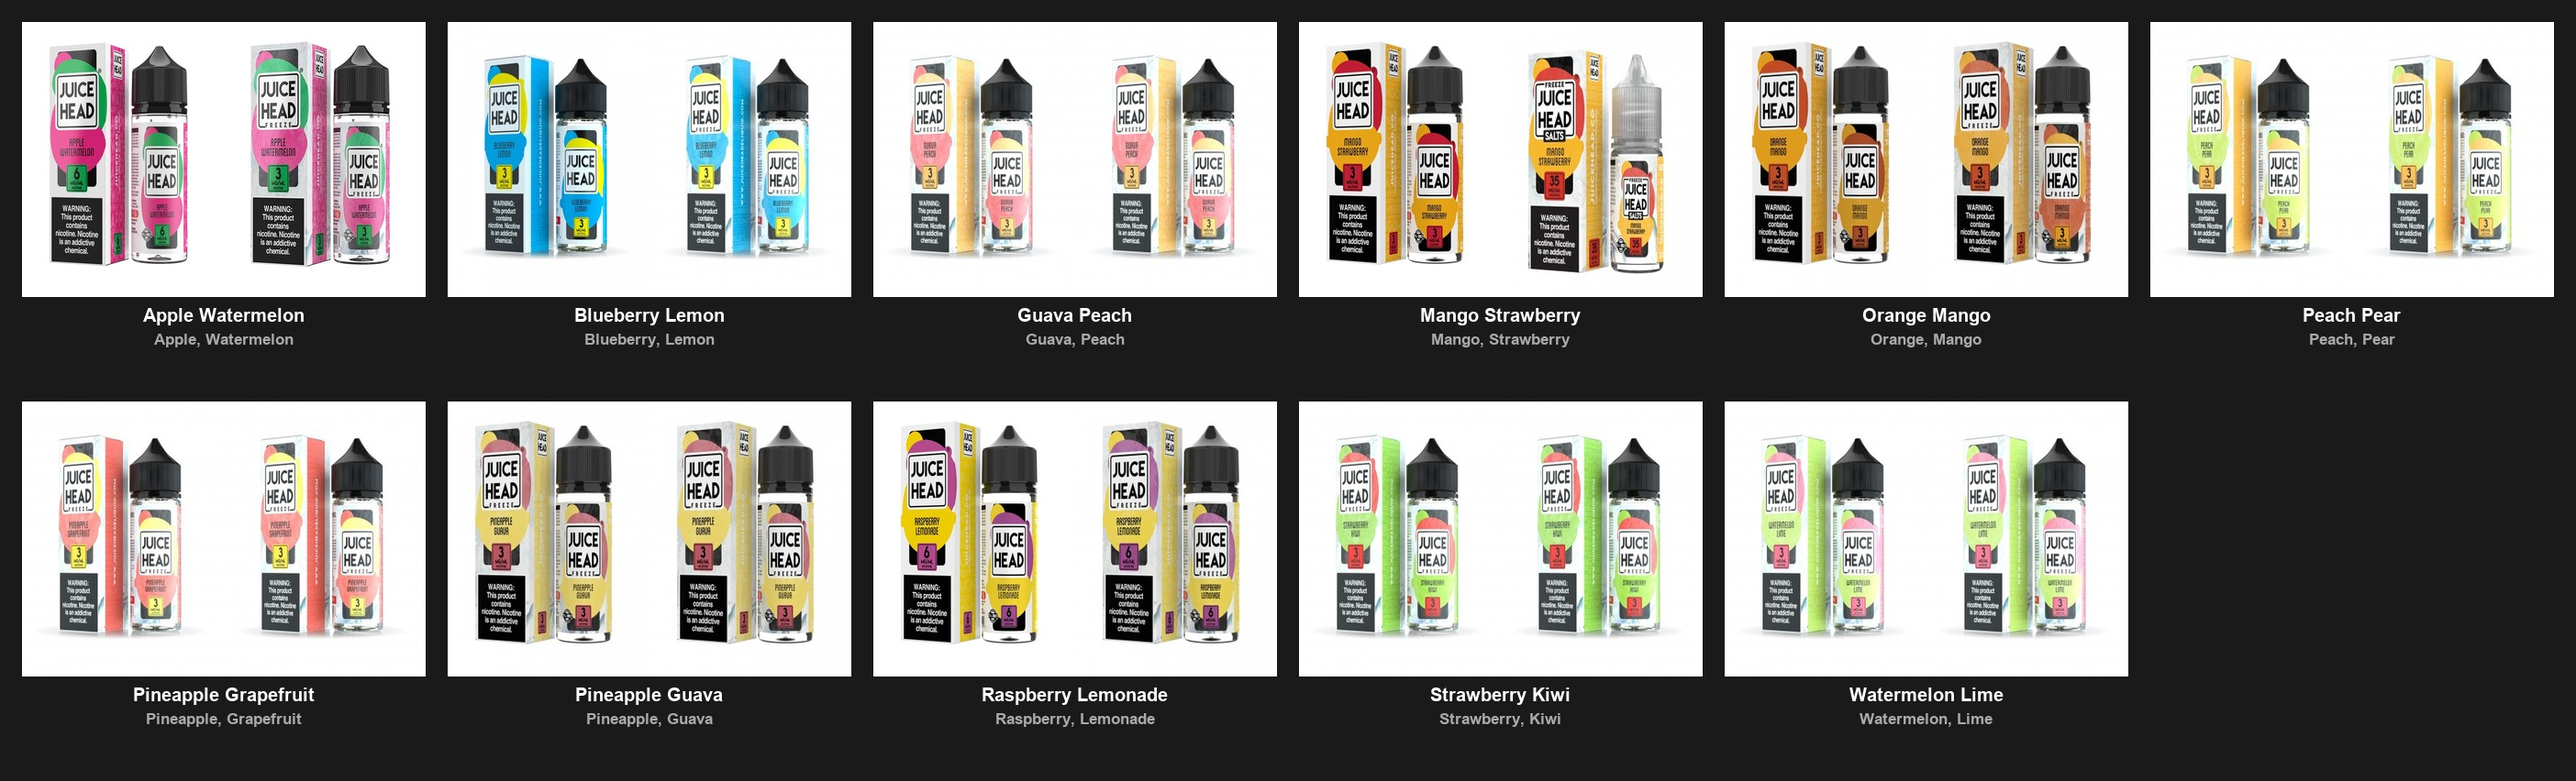
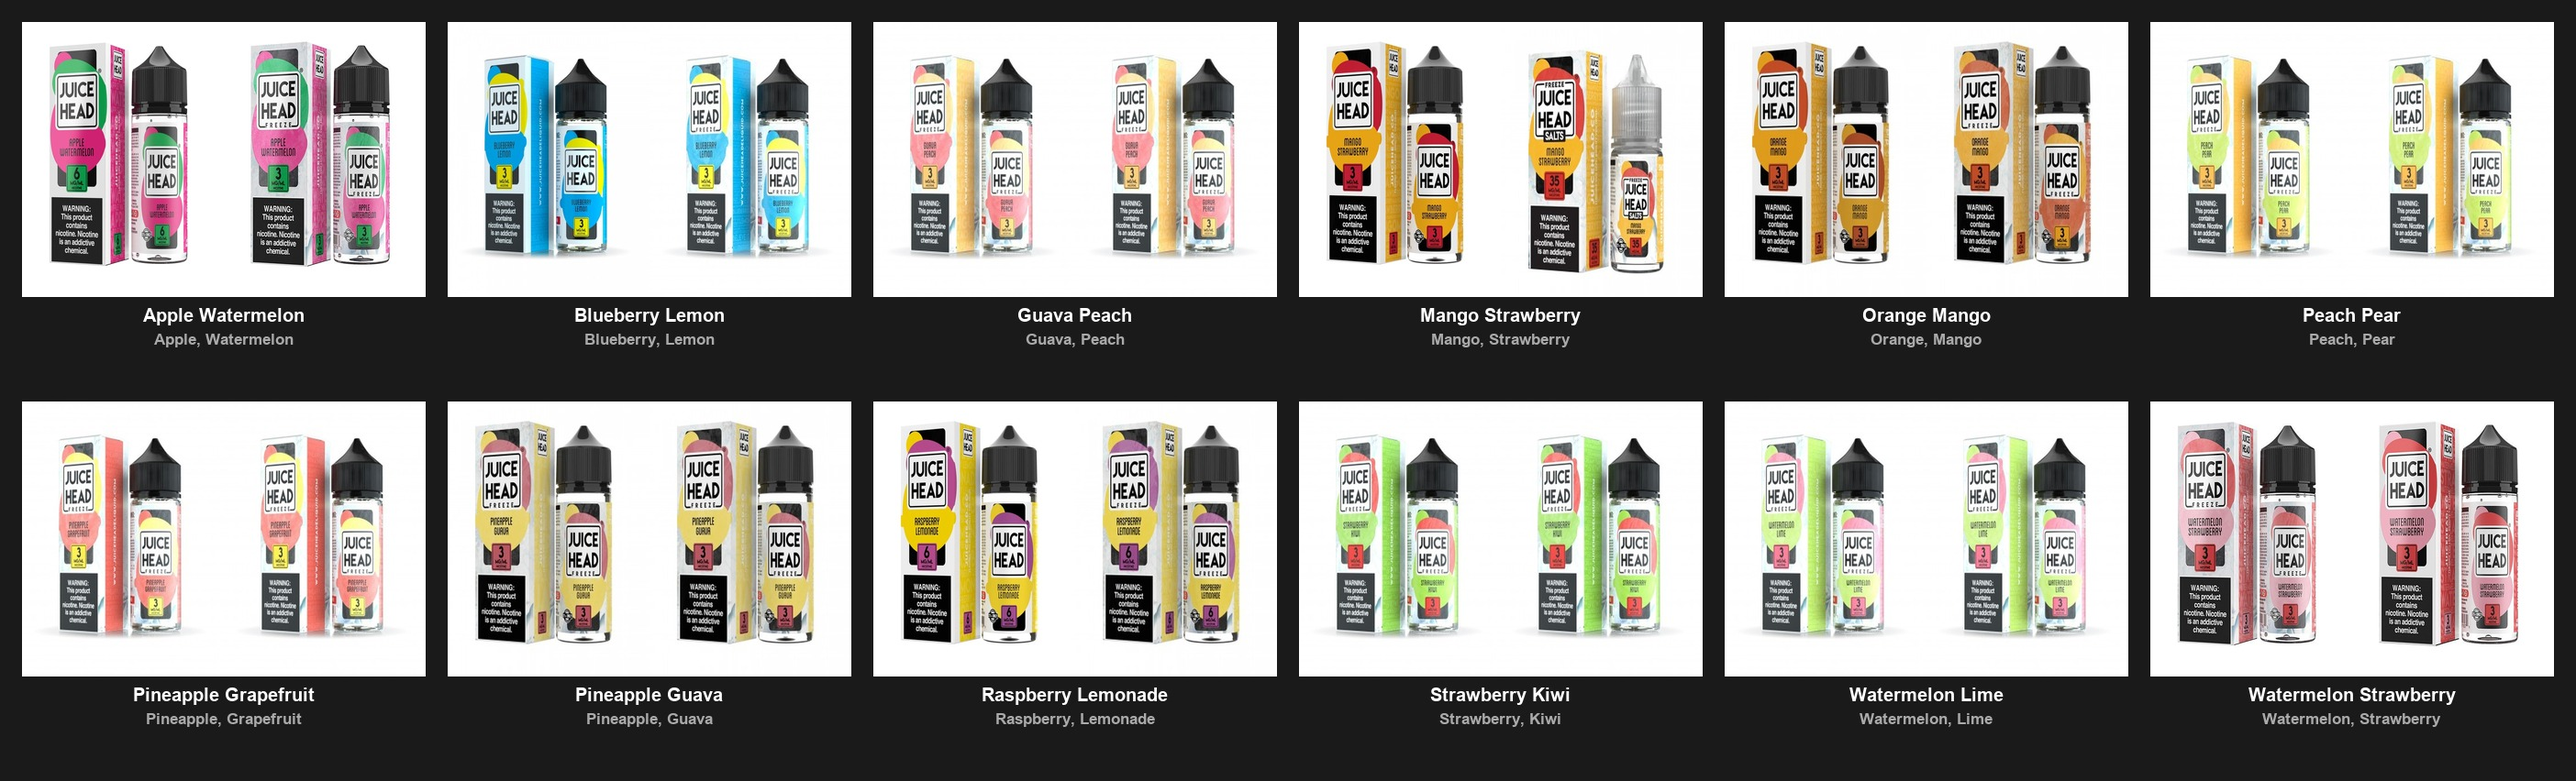
Add Watermelon Strawberry to Juice Head

Changed region(s): [[0.8365, 0.4883, 0.9915, 0.946]]

diff --git a/juice-head.html b/juice-head.html
@@ -219,6 +219,17 @@
         </div>
       </div>
 
+      <div class="flavor-card">
+        <img src="images/juice-head-watermelon-strawberry-both.jpg" alt="Watermelon Strawberry">
+        <div class="flavor-name">Watermelon Strawberry</div>
+        <div class="flavor-desc">Watermelon, Strawberry, Fruit</div>
+        <div class="freeze-note">&#10052; Also available in Freeze</div>
+        <div class="badge-row">
+          <span class="badge badge-salt">Salt Nic</span>
+          <span class="badge badge-sub">Sub-Ohm</span>
+        </div>
+      </div>
+
     </div>
 
     <div class="back-bar">
